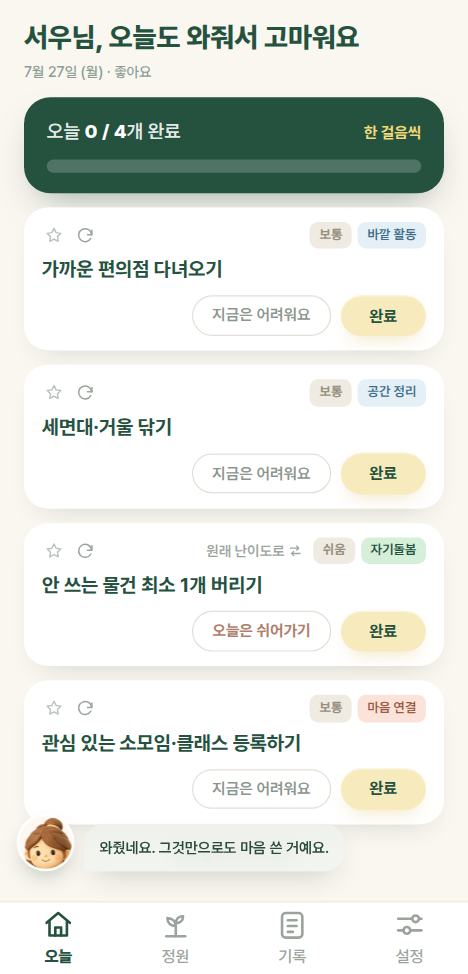
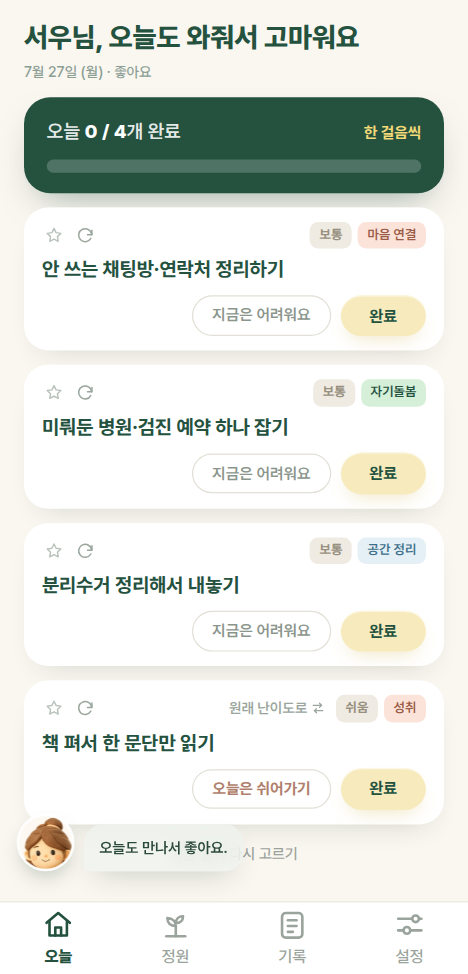
feat: 온보딩 디벨롭 — P2 캡처 코치 문구 자연스러운 것으로 고정('오늘도 만나서 좋아요'), P4 홈 화면 설치 목업 이미지 추가
- P2 실화면 재촬영: 코치 말풍선 문구를 지정 문구로 고정해 캡처(랜덤 어색 문구 방지)
- P4: 앱 아이콘 단독 → 홈 화면 목업(흐린 앱들 사이 오늘만큼 아이콘 코랄 링 강조, 미니 프레임 동일 문법)으로 교체 — 공백·텍스트 위주 해소

Claude-Session: https://claude.ai/code/session_01MviFsewi3H9EVEj5rAZFbk

diff --git a/src/screens/OnboardingGuide.jsx b/src/screens/OnboardingGuide.jsx
@@ -101,12 +101,15 @@ export default function OnboardingGuide({ onDone }) {
 
         {!isStandalone && (
           <div style={{ flex: 'none', width: '100%', height: '100%', scrollSnapAlign: 'start', padding: '54px 28px 0', boxSizing: 'border-box', display: 'flex', flexDirection: 'column', alignItems: 'center', textAlign: 'center', overflow: 'hidden' }}>
-            <img src={`${BASE}app-icon-192.png`} alt="" style={{ width: 74, height: 74, borderRadius: 19, boxShadow: '0 14px 30px -14px rgba(36,82,63,.35), 0 0 0 1px rgba(36,82,63,.06)' }} />
-            <h2 style={{ fontSize: 22, fontWeight: 800, color: '#24523F', letterSpacing: '-0.03em', lineHeight: 1.38, margin: '16px 0 0', wordBreak: 'keep-all' }}>홈 화면에 추가하면 앱이 돼요</h2>
+            <h2 style={{ fontSize: 22, fontWeight: 800, color: '#24523F', letterSpacing: '-0.03em', lineHeight: 1.38, margin: 0, wordBreak: 'keep-all' }}>홈 화면에 추가하면 앱이 돼요</h2>
             <p style={{ fontSize: 13.5, fontWeight: 500, color: '#6F7D72', lineHeight: 1.65, margin: '9px 0 0', wordBreak: 'keep-all' }}>
               홈 화면에 추가하면 아이콘으로 바로 열리고,<br />알림도 이 앱으로 도착해요.
             </p>
-            <div style={{ marginTop: 20, width: '100%', textAlign: 'left' }}>
+            {/* 설치된 모습 목업 — 홈 화면 위 오늘만큼 아이콘 강조 (다른 장의 미니 프레임과 같은 문법) */}
+            <div style={{ marginTop: 18, flex: 'none', padding: 5, borderRadius: 24, background: 'linear-gradient(150deg,#2F604B 0%,#1C3F2F 55%,#142E22 100%)', boxShadow: '0 22px 44px -20px rgba(20,46,34,.45)' }}>
+              <img src={`${BASE}images/onboard-install.png`} alt="" style={{ width: 200, display: 'block', borderRadius: 19 }} />
+            </div>
+            <div style={{ marginTop: 16, width: '100%', textAlign: 'left' }}>
               {methods.map(({ key, title, desc }) => {
                 const mine = key === browser
                 return (
